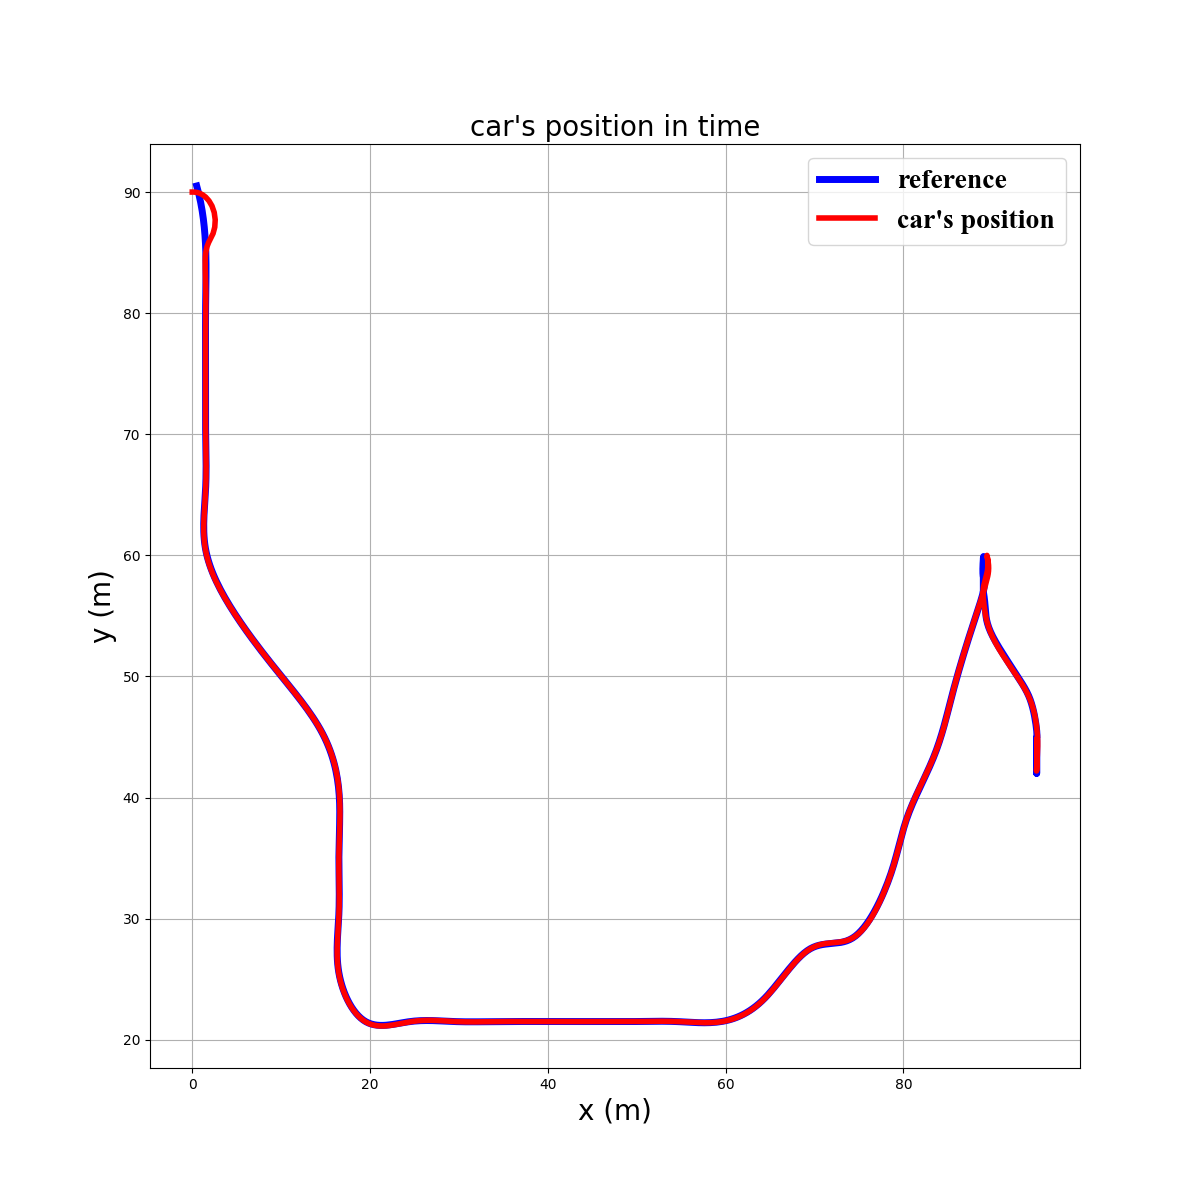
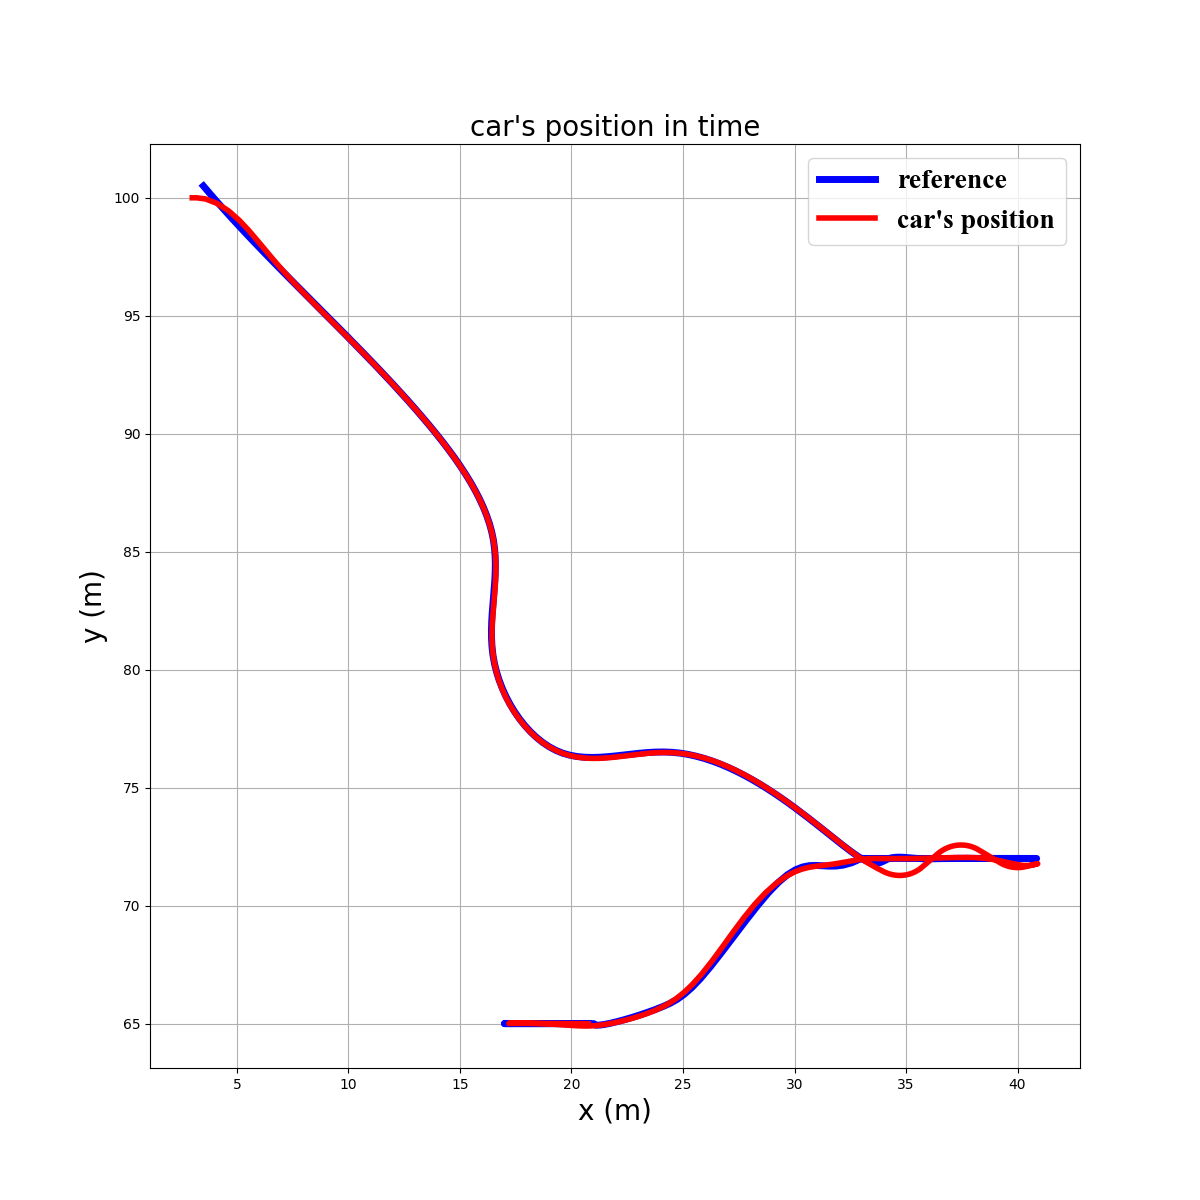
Car demo working

diff --git a/CAR kinematic model/pathplanning.py b/CAR kinematic model/pathplanning.py
@@ -281,187 +281,65 @@ class ParkPathPlanning:
 
         s = 4
         l = 8
-        d = 2
+        d = 3
         w = 4
 
-        if -math.atan2(0,-1) < computed_angle <= math.atan2(-1,0):
-            x_ensure2 = gx
-            y_ensure2 = gy
-            x_ensure1 = x_ensure2 + d + w
-            y_ensure1 = y_ensure2 - l - s
-            ensure_path1 = np.vstack([np.repeat(x_ensure1,3/0.25), np.arange(y_ensure1-3,y_ensure1,0.25)[::-1]]).T
-            ensure_path2 = np.vstack([np.repeat(x_ensure2,3/0.25), np.arange(y_ensure2,y_ensure2+3,0.25)[::-1]]).T
-            park_path = self.plan_park_down_right(x_ensure2, y_ensure2)
-
-        elif math.atan2(-1,0) <= computed_angle <= math.atan2(0,1):
-            x_ensure2 = gx
-            y_ensure2 = gy
-            x_ensure1 = x_ensure2 - d - w
-            y_ensure1 = y_ensure2 - l - s 
-            ensure_path1 = np.vstack([np.repeat(x_ensure1,3/0.25), np.arange(y_ensure1-3,y_ensure1,0.25)[::-1]]).T
-            ensure_path2 = np.vstack([np.repeat(x_ensure2,3/0.25), np.arange(y_ensure2,y_ensure2+3,0.25)[::-1]]).T
-            park_path = self.plan_park_down_left(x_ensure2, y_ensure2)
-
-        elif math.atan2(0,1) < computed_angle <= math.atan2(1,0):
-            x_ensure2 = gx
-            y_ensure2 = gy
-            x_ensure1 = x_ensure2 - d - w
-            y_ensure1 = y_ensure2 + l + s
-            ensure_path1 = np.vstack([np.repeat(x_ensure1,3/0.25), np.arange(y_ensure1,y_ensure1+3,0.25)]).T
-            ensure_path2 = np.vstack([np.repeat(x_ensure2,3/0.25), np.arange(y_ensure2-3,y_ensure2,0.25)]).T
-            park_path = self.plan_park_up_left(x_ensure2, y_ensure2)
-
-        elif math.atan2(1,0) < computed_angle <= math.atan2(0,-1):
-            x_ensure2 = gx
-            y_ensure2 = gy
-            x_ensure1 = x_ensure2 + d + w
-            y_ensure1 = y_ensure2 + l + s
-            ensure_path1 = np.vstack([np.repeat(x_ensure1,3/0.25), np.arange(y_ensure1,y_ensure1+3,0.25)]).T
-            ensure_path2 = np.vstack([np.repeat(x_ensure2,3/0.25), np.arange(y_ensure2-3,y_ensure2,0.25)]).T
-            park_path = self.plan_park_up_right(x_ensure2, y_ensure2)
+        x_ensure2 = gx
+        y_ensure2 = gy
+        x_ensure1 = x_ensure2 + l + s
+        y_ensure1 = y_ensure2 + d + w
+        #Potentailly reverse first array
+        ensure_path1 = np.vstack([np.arange(x_ensure1,x_ensure1+8,0.25),np.repeat(y_ensure1,8/0.25)]).T
+        ensure_path2 = np.vstack([np.arange(x_ensure2-4,x_ensure2,0.25),np.repeat(y_ensure2,4/0.25)]).T
+        park_path = self.plan_park_down_left(x_ensure2, y_ensure2)
 
         return np.array([x_ensure1, y_ensure1]), park_path, ensure_path1, ensure_path2
-
-
-    def plan_park_up_right(self, x1, y1):       
-            s = 4
-            l = 8
-            d = 2
-            w = 4
-
-            x0 = x1 + d + w
-            y0 = y1 + l + s
-            
-            curve_x = np.array([])
-            curve_y = np.array([])
-            y = np.arange(y1,y0+1)
-            circle_fun = (6.9**2 - (y-y0)**2)
-            x = (np.sqrt(circle_fun[circle_fun>=0]) + x0-6.9)
-            y = y[circle_fun>=0]
-            choices = x>x0-6.9/2
-            x=x[choices]
-            y=y[choices]
-            curve_x = np.append(curve_x, x[::-1])
-            curve_y = np.append(curve_y, y[::-1])
-            
-            y = np.arange(y1,y0+1)
-            circle_fun = (6.9**2 - (y-y1)**2)
-            x = (np.sqrt(circle_fun[circle_fun>=0]) + x1+6.9)
-            y = y[circle_fun>=0]
-            x = (x - 2*(x-(x1+6.9)))
-            choices = x<x1+6.9/2
-            x=x[choices]
-            y=y[choices]
-            curve_x = np.append(curve_x, x[::-1])
-            curve_y = np.append(curve_y, y[::-1])
-
-            park_path = np.vstack([curve_x, curve_y]).T
-            return park_path
-
-    def plan_park_up_left(self, x1, y1):       
-            s = 4
-            l = 8
-            d = 2
-            w = 4
-
-            x0 = x1 - d - w
-            y0 = y1 + l + s
-            
-            curve_x = np.array([])
-            curve_y = np.array([])
-            y = np.arange(y1,y0+1)
-            circle_fun = (6.9**2 - (y-y0)**2)
-            x = (np.sqrt(circle_fun[circle_fun>=0]) + x0+6.9)
-            y = y[circle_fun>=0]
-            x = (x - 2*(x-(x0+6.9)))
-            choices = x<x0+6.9/2
-            x=x[choices]
-            y=y[choices]
-            curve_x = np.append(curve_x, x[::-1])
-            curve_y = np.append(curve_y, y[::-1])
-            
-            y = np.arange(y1,y0+1)
-            circle_fun = (6.9**2 - (y-y1)**2)
-            x = (np.sqrt(circle_fun[circle_fun>=0]) + x1-6.9)
-            y = y[circle_fun>=0]
-            choices = x>x1-6.9/2
-            x=x[choices]
-            y=y[choices]
-            curve_x = np.append(curve_x, x[::-1])
-            curve_y = np.append(curve_y, y[::-1])
-
-            park_path = np.vstack([curve_x, curve_y]).T
-            return park_path
-
-
-    def plan_park_down_right(self, x1,y1):
-            s = 4
-            l = 8
-            d = 2
-            w = 4
-
-            x0 = x1 + d + w
-            y0 = y1 - l - s
-            
-            curve_x = np.array([])
-            curve_y = np.array([])
-            y = np.arange(y0,y1+1)
-            circle_fun = (6.9**2 - (y-y0)**2)
-            x = (np.sqrt(circle_fun[circle_fun>=0]) + x0-6.9)
-            y = y[circle_fun>=0]
-            choices = x>x0-6.9/2
-            x=x[choices]
-            y=y[choices]
-            
-            curve_x = np.append(curve_x, x)
-            curve_y = np.append(curve_y, y)
-            
-            y = np.arange(y0,y1+1)
-            circle_fun = (6.9**2 - (y-y1)**2)
-            x = (np.sqrt(circle_fun[circle_fun>=0]) + x1+6.9)
-            x = (x - 2*(x-(x1+6.9)))
-            y = y[circle_fun>=0]
-            choices = x<x1+6.9/2
-            x=x[choices]
-            y=y[choices]
-            curve_x = np.append(curve_x, x)
-            curve_y = np.append(curve_y, y)
-            
-            park_path = np.vstack([curve_x, curve_y]).T
-            return park_path
-
 
     def plan_park_down_left(self, x1,y1):
             s = 4
             l = 8
-            d = 2
+            d = 3
             w = 4
 
-            x0 = x1 - d - w
-            y0 = y1 - l - s
-            
+            x0 = x1 + l + s
+            y0 = y1 + d + w
+
             curve_x = np.array([])
             curve_y = np.array([])
-            y = np.arange(y0,y1+1)
-            circle_fun = (6.9**2 - (y-y0)**2)
-            x = (np.sqrt(circle_fun[circle_fun>=0]) + x0+6.9)
-            y = y[circle_fun>=0]
-            x = (x - 2*(x-(x0+6.9)))
-            choices = x<x0+6.9/2
-            x=x[choices]
-            y=y[choices]
-            curve_x = np.append(curve_x, x)
-            curve_y = np.append(curve_y, y)
+            x = np.arange(x1, x0+1)
+            circle_fun = (6.9 ** 2 - (x - x0) ** 2)
+            y = (np.sqrt(circle_fun[circle_fun >= 0]) + y0 - 6.9)
+            x = x[circle_fun >= 0] #circle_fun > 0 means this x point  is part of the circle
+            # y = (y - 2 * (y - (y0 - 6.9))) #only needed for mirror
+            choices = y > y0 - 6.9 / 2
+            x = x[choices]
+            y = y[choices]
+            curve_x = np.append(curve_x, x[::-1])
+            curve_y = np.append(curve_y, y[::-1])
+
+
+            x = np.arange(x1, x0+1)
+            circle_fun = (6.9 ** 2 - (x - x1) ** 2)
+            y = (np.sqrt(circle_fun[circle_fun >= 0]) + y1 + 6.9)
+            x = x[circle_fun >= 0]
+            y = (y-2*(y-(y1+6.9)))
+            choices = y < y1 + 6.9 / 2
+            x = x[choices]
+            y = y[choices]
+            curve_x = np.append(curve_x, x[::-1])
+            curve_y = np.append(curve_y, y[::-1])
             
-            y = np.arange(y0,y1+1)
-            circle_fun = (6.9**2 - (y-y1)**2)
-            x = (np.sqrt(circle_fun[circle_fun>=0]) + x1-6.9)
-            y = y[circle_fun>=0]
-            choices = x>x1-6.9/2
-            x=x[choices]
-            y=y[choices]
-            curve_x = np.append(curve_x, x)
-            curve_y = np.append(curve_y, y)
+
+            #
+            # y = np.arange(y0,y1+1)
+            # circle_fun = (6.9**2 - (y-y1)**2)
+            # x = (np.sqrt(circle_fun[circle_fun>=0]) + x1-6.9)
+            # y = y[circle_fun>=0]
+            # choices = x>x1-6.9/2
+            # x=x[choices]
+            # y=y[choices]
+            # curve_x = np.append(curve_x, x)
+            # curve_y = np.append(curve_y, y)
             
             park_path = np.vstack([curve_x, curve_y]).T
             return park_path

diff --git a/CAR kinematic model/environment.py b/CAR kinematic model/environment.py
@@ -91,67 +91,28 @@ class Environment:
 class Parking1:
     def __init__(self, car_pos):
         self.car_obstacle_hori = self.make_car_hori()
-        self.car_obstacle_vert = self.make_car_vert()
-        self.car_obstacle_left = self.make_car_left()
-        self.car_obstacle_right = self.make_car_right()
-        self.walls = [[20,i] for i in range(25, 105)]+\
-                     [[20,i] for i in range(-5, 10)] +\
-                     [[60,i] for i in range(25,80) ]+\
-                     [[100,i] for i in range(25,80) ]
-        # self.walls = [0,100]
+        self.walls = [[50,i] for i in range(-10, 100)] +\
+                     [[i,55] for i in range(-10, 100)] + \
+                     [[i, 90] for i in range(20, 40)] +\
+                     [[i,80] for i in range(20, 40)] + \
+                     [[20, i] for i in range(80, 90)] +\
+                     [[40, i] for i in range(80, 91)]
+                     # [[20, i] for i in range(20, 40)]
+            # self.walls = [0,100]
         self.obs = np.array(self.walls)
-        self.cars = {1 : [[95,45]],2 : [[27,35]],3 : [[27,47]],4 : [[27,59]],5 : [[27,71]]
-                    ,6 : [[53,35]],7 : [[53,47]],8 : [[53,59]],9 : [[53,71]]
-                     ,10 : [[30,100]],11 : [[45,100]],12 : [[60,100]],13 : [[75,100]],14 : [[90,100]],
-                     15 : [[68,33]],16 : [[68,41]],17 : [[68,49]],18 : [[68,57]],19 : [[68,65]],20 : [[68,73]],
-                     21 : [[95,33]],22 : [[95,59]],23 : [[95,73]]}
-        self.car_type = ["self(blank)", "left", "left", "left", "left",
-                         "right", "right", "right", "right",
-                         "hori", "hori", "hori", "hori","hori", "hori", "hori", "hori","hori", "hori", "hori",
-                         "vert", "vert", "vert"]
+        self.cars = {1 : [[21,65]],2 : [[5,65]],3 : [[40,65]]}
         self.end = self.cars[car_pos][0]
         self.cars.pop(car_pos)
 
     def generate_obstacles(self):
         for i in self.cars.keys():
             for j in range(len(self.cars[i])):
-                if self.car_type[i-1] == "hori":
-                    obstacle = self.car_obstacle_hori + self.cars[i]
-                elif self.car_type[i-1] == "vert":
-                    obstacle = self.car_obstacle_vert + self.cars[i]
-                elif self.car_type[i-1] == "left":
-                    obstacle = self.car_obstacle_left + self.cars[i]
-                elif self.car_type[i-1] == "right":
-                    obstacle = self.car_obstacle_right + self.cars[i]
+                obstacle = self.car_obstacle_hori + self.cars[i]
                 self.obs = np.append(self.obs, obstacle)
         return self.end, np.array(self.obs).reshape(-1,2)
-
-    def make_car_vert(self):
-        car_obstacle_x, car_obstacle_y = np.meshgrid(np.arange(-2,2), np.arange(-4,4))
-        car_obstacle = np.dstack([car_obstacle_x, car_obstacle_y]).reshape(-1,2)
-        # car_obstacle = np.array([[0,0],[0,-1],[0,1],[-1,-1],[-1,0],[-1,1],[1,-1],[1,0],[1,1]])
-        return car_obstacle
 
     def make_car_hori(self):
         car_obstacle_x, car_obstacle_y = np.meshgrid(np.arange(-4,4), np.arange(-2,2))
         car_obstacle = np.dstack([car_obstacle_x, car_obstacle_y]).reshape(-1,2)
         # car_obstacle = np.array([[0,0],[0,-1],[0,1],[-1,-1],[-1,0],[-1,1],[1,-1],[1,0],[1,1]])
-        return car_obstacle
-
-    def make_car_right(self):
-        # car_obstacle = np.array([[1,4],[0,3],[1,3],[2,3],[-1,2],[0,2],[1,2],[2,2],[3,2],[-2,1],[-1,1],[0,1],[1,1],[2,1],[3,1],[4,1],[-2,1],[-1,0],[0,0],[1,0],[2,0],[3,0],[-3,0],[-2,-1],[-1,-1],[0,-1],[1,-1],[2,-1],[-4,-1],[-3,-1],[-2,1],[-1,-2],[0,-2],[1,-2],[-3,-2],[-4,-2],[-5,-2],[-2,-3],[-1,-3],[0,-3],[-3,-3],[-4,-3],[-3,-4],[-2,-4],[-1,-4],[-2,-5]])
-        car_obstacle = np.array(
-            [[1, 4], [0, 3], [1, 3], [2, 3], [-1, 2], [0, 2], [1, 2], [2, 2], [3, 2], [-2, 1], [-1, 1], [0, 1], [1, 1],
-             [2, 1], [3, 1], [4, 1], [-2, 1], [-1, 0], [0, 0], [1, 0], [2, 0], [3, 0], [-3, 0], [-2, 0], [-2, -1], [-1, -1],
-             [0, -1], [1, -1], [2, -1], [-4, -1], [-3, -1], [-2, -2], [-1, -2], [0, -2], [1, -2], [-3, -2], [-4, -2],
-             [-5, -2], [-2, -3], [-1, -3], [0, -3], [-3, -3], [-4, -3], [-3, -4], [-2, -4], [-1, -4], [-2, -5]])
-        return car_obstacle
-
-    def make_car_left(self):
-        car_obstacle = np.array(
-            [[-1, 4], [0, 3], [-1, 3], [-2, 3], [1, 2], [0, 2], [-1, 2], [-2, 2], [-3, 2], [2, 1], [1, 1], [0, 1], [-1, 1],
-             [-2, 1], [-3, 1], [-4, 1], [2, 1], [1, 0], [0, 0], [-1, 0], [-2, 0], [-3, 0], [3, 0], [2, 0], [2, -1],
-             [1, -1],
-             [0, -1], [-1, -1], [-2, -1], [4, -1], [3, -1], [2, -2], [1, -2], [0, -2], [-1, -2], [3, -2], [4, -2],
-             [5, -2], [2, -3], [1, -3], [0, -3], [3, -3], [4, -3], [3, -4], [2, -4], [1, -4], [2, -5]])
         return car_obstacle

diff --git a/CAR kinematic model/main_autopark.py b/CAR kinematic model/main_autopark.py
@@ -10,11 +10,11 @@ from utils import angle_of_line, make_square, DataLogger
 
 if __name__ == '__main__':
     parser = argparse.ArgumentParser()
-    parser.add_argument('--x_start', type=int, default=0, help='X of start')
-    parser.add_argument('--y_start', type=int, default=90, help='Y of start')
+    parser.add_argument('--x_start', type=int, default=3, help='X of start')
+    parser.add_argument('--y_start', type=int, default=100, help='Y of start')
     parser.add_argument('--psi_start', type=int, default=0, help='psi of start')
-    parser.add_argument('--x_end', type=int, default=90, help='X of end')
-    parser.add_argument('--y_end', type=int, default=80, help='Y of end')
+    parser.add_argument('--x_end', type=int, default=10, help='X of end')
+    parser.add_argument('--y_end', type=int, default=10, help='Y of end')
     parser.add_argument('--parking', type=int, default=1, help='park position in parking1 out of 24')
 
     args = parser.parse_args()
@@ -50,7 +50,7 @@ if __name__ == '__main__':
 
     ########################### initialization ##################################################
     env = Environment(obs)
-    my_car = Car_Dynamics(start[0], start[1], 0, np.deg2rad(args.psi_start), length=4, dt=0.2)
+    my_car = Car_Dynamics(start[0], start[1], 0, np.deg2rad(args.psi_start), length=2.8, dt=0.2)
     MPC_HORIZON = 5
     controller = MPC_Controller()
     # controller = Linear_MPC_Controller()
